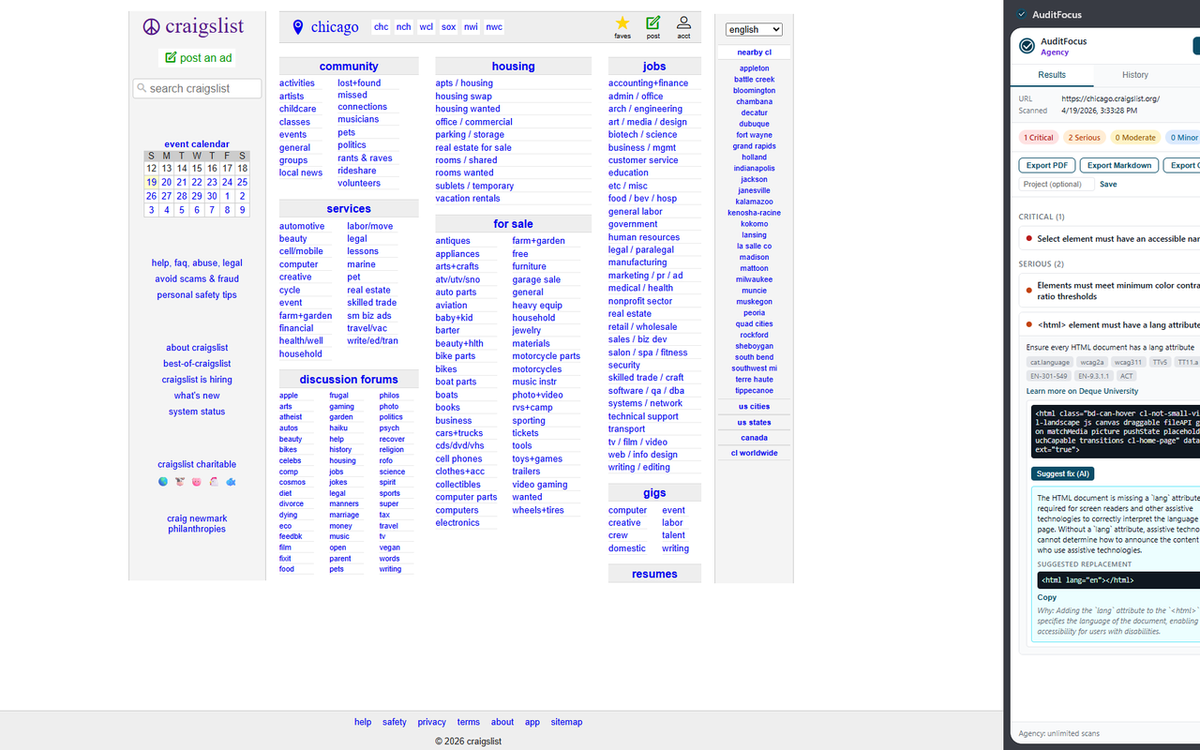
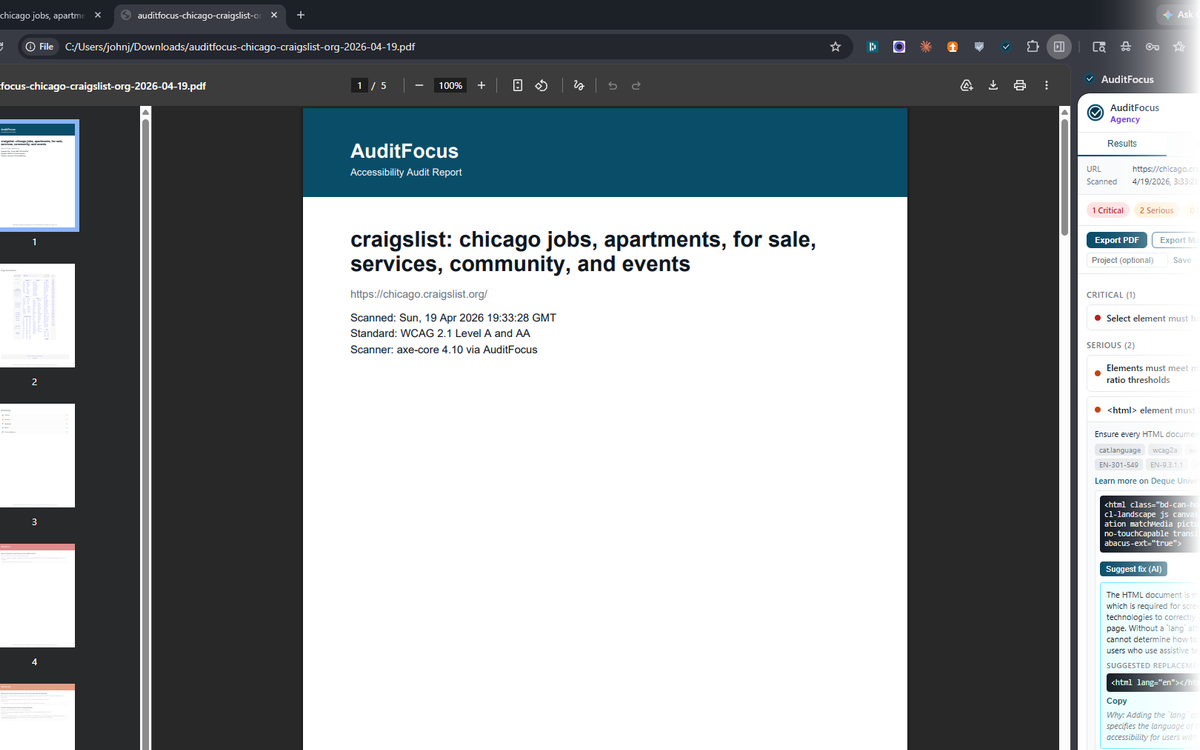
Reframe hero around branded PDF audit report
Original hero cropped the AuditFocus side panel's right edge because the
source screenshots were captured with the panel wider than the Chrome
window. Reframed to feature the branded Accessibility Audit PDF report
(which directly maps to the site copy about PDF/Markdown/CSV exports)
with the panel as a supporting element on the right that fades softly
into the background instead of hard-clipping.

Updated alt text to reflect the new composition.

diff --git a/index.html b/index.html
@@ -532,7 +532,7 @@
   </div>
   <figure class="hero-shot">
     <img src="/assets/auditfocus-hero.png"
-         alt="AuditFocus side panel beside a scanned Craigslist homepage, showing an expanded AI fix suggestion for a WCAG 2.1 AA violation with ready-to-paste code."
+         alt="A branded AuditFocus Accessibility Audit PDF report for craigslist.org open in Chrome, with the AuditFocus side panel on the right showing Critical and Serious WCAG 2.1 findings and an AI fix suggestion."
          width="1200" height="750" loading="eager" decoding="async">
   </figure>
 </section>
